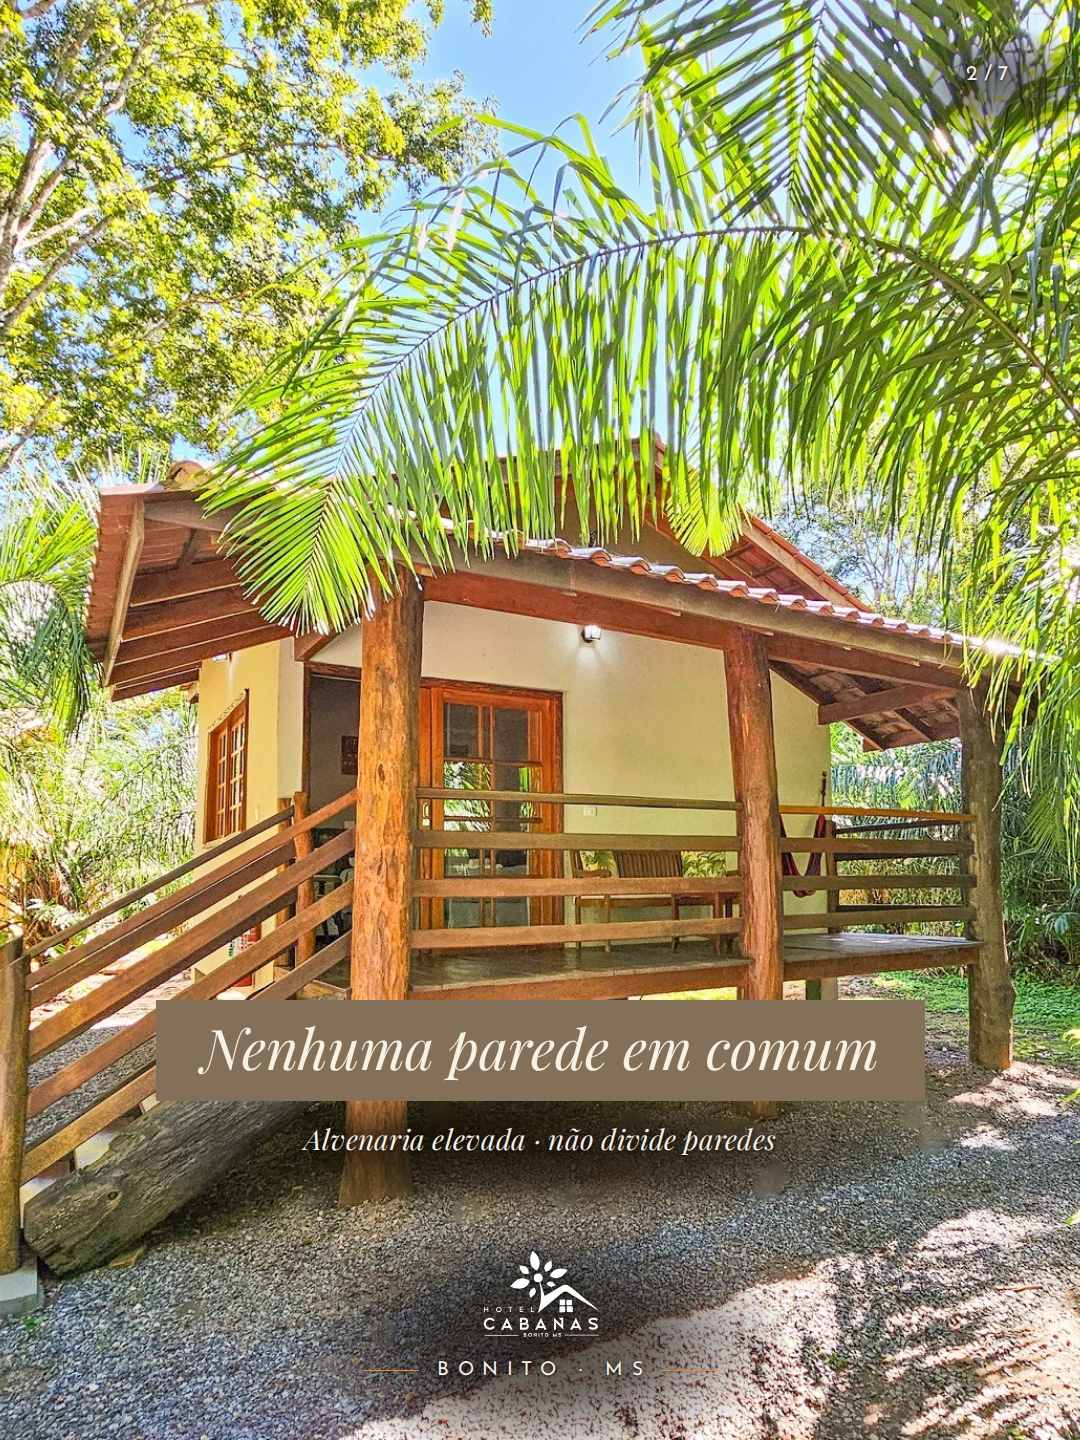
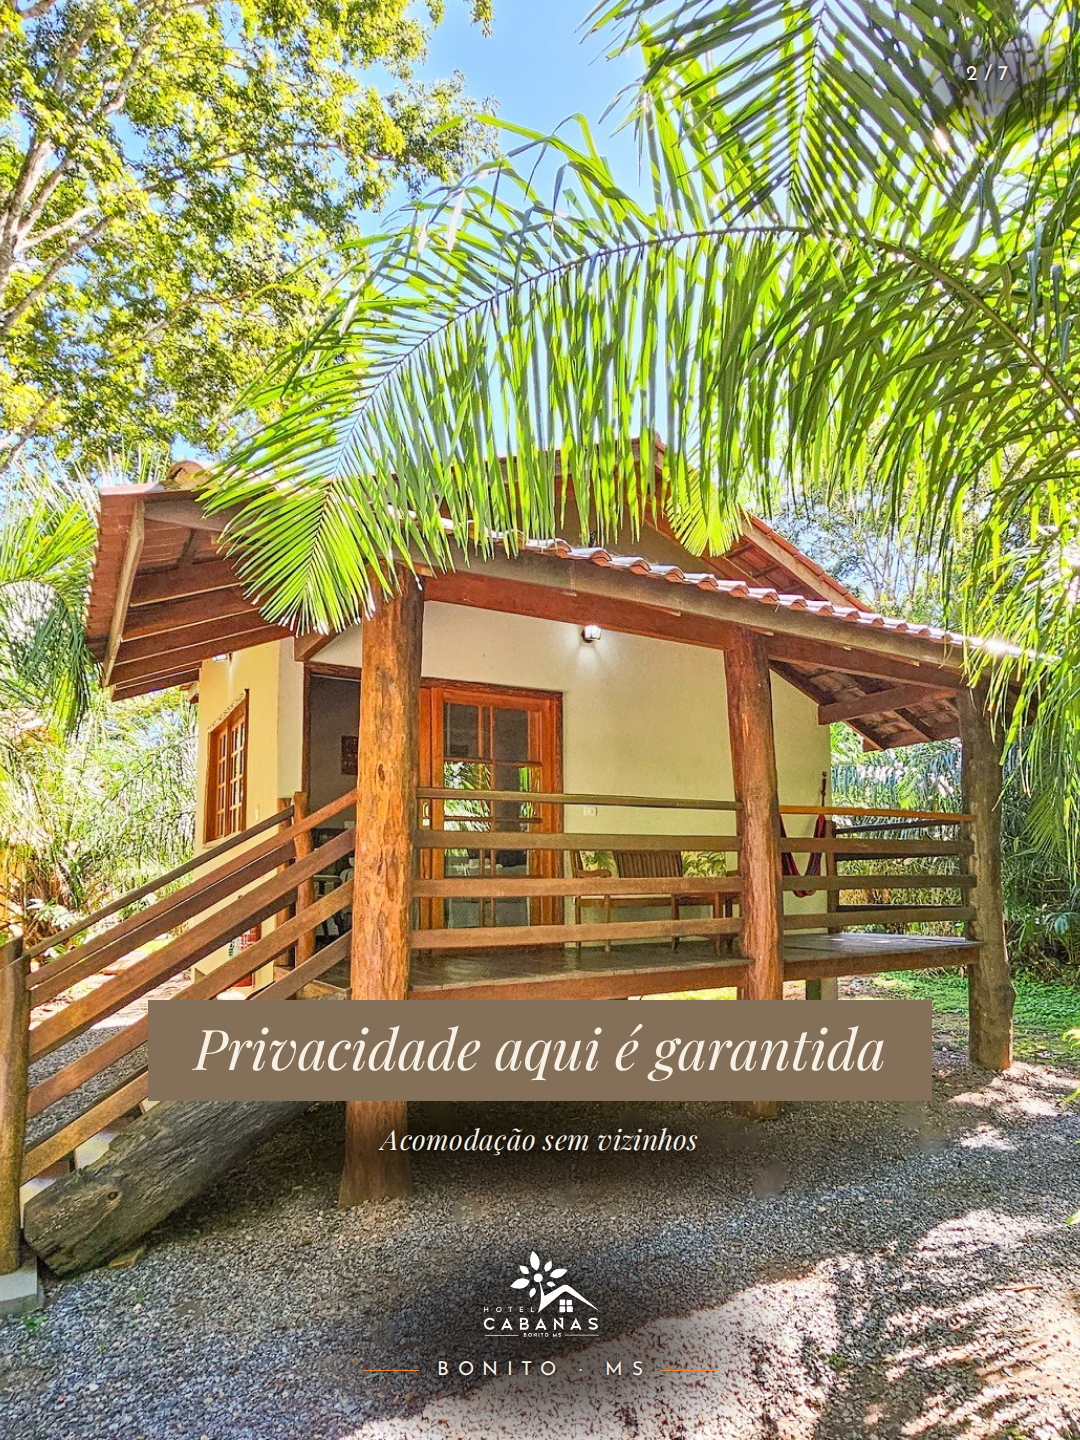
POST 16: tela 2 com o texto editado pelo dono na Central, nos 3 estilos
Claude-Session: https://claude.ai/code/session_01GffBmxQFJnfaKwiJFV7qgT

diff --git a/design/pecas/2026-10-instagram/POST-16/peca-caixa-2.html b/design/pecas/2026-10-instagram/POST-16/peca-caixa-2.html
@@ -19,8 +19,8 @@
   <div class="sombra" style="left: 900px; top: 25px; width: 200px; height: 120px; --forca: 0.55"></div>
   <span class="num-sf">2/7</span>
   <div class="cc" style="--topo: 1000px">
-    <div class="cc-caixa"><h1 class="titulo">Nenhuma parede em comum</h1></div>
-    <p class="cc-apoio">Alvenaria elevada · não divide paredes</p>
+    <div class="cc-caixa"><h1 class="titulo">Privacidade aqui é garantida</h1></div>
+    <p class="cc-apoio">Acomodação sem vizinhos</p>
   </div>
   <div class="cc-selo base">
     <img src="../../../../contexto/marca/logo-hotel-cabanas-branco.png" alt="Hotel Cabanas">

diff --git a/design/pecas/2026-10-instagram/POST-16/peca-sem-faixa-2.html b/design/pecas/2026-10-instagram/POST-16/peca-sem-faixa-2.html
@@ -19,9 +19,9 @@
   <div class="sombra" style="left: 860px; top: 10px; width: 320px; height: 190px; --forca: 0.5"></div>
   <span class="num-sf">2/7</span>
   <div class="bloco-sf baixo">
-      <p class="apoio">Alvenaria elevada · não divide paredes</p>
+      <p class="apoio">Acomodação sem vizinhos</p>
       <div class="linha"></div>
-      <h1 class="titulo">Nenhuma <b>parede</b> em <i>comum</i></h1>
+      <h1 class="titulo">Privacidade <b>aqui</b> é <i>garantida</i></h1>
   </div>
   <div class="assin-sf">
     <span class="fio"></span>

diff --git a/design/pecas/2026-10-instagram/POST-16/peca-2.html b/design/pecas/2026-10-instagram/POST-16/peca-2.html
@@ -16,9 +16,9 @@
   <img class="foto" src="foto-2.jpg" alt="">
   <div class="rodape faixa">
     <div class="texto">
-      <p class="apoio">Alvenaria elevada · não divide paredes</p>
+      <p class="apoio">Acomodação sem vizinhos</p>
       <div class="linha"></div>
-      <h1 class="titulo">Nenhuma <b>parede</b> em <i>comum</i></h1>
+      <h1 class="titulo">Privacidade <b>aqui</b> é <i>garantida</i></h1>
     </div>
     <div class="marca">
       <span class="num">2/7</span>

diff --git a/social/conteudo/2026-10/conteudo.md b/social/conteudo/2026-10/conteudo.md
@@ -547,7 +547,7 @@ Reserve pelo link na bio ou pelo WhatsApp (67) 99117-1648
 ### Briefing de arte
 Feed 3:4 (1080 × 1440). Um só layout em todas as telas (o dono prefere **sem faixa**; faixa discreta marrom `#847059` se a foto for clara demais). Título serifado com a palavra em **negrito** e a palavra em *itálico* marcadas; apoio em sem serifa, caixa alta espaçada; linha fina laranja `#F58634` + "BONITO / MS" na assinatura. **Fotos abertas e conferidas pelo Designer em 29/09/2026** (arte pronta em `design/pecas/2026-10-instagram/POST-16/final/`, layout sem faixa; detalhes em `POST-16/entrega.md`). Trocas: tela 5 e tela 6 (abaixo).
 - TELA 1 (capa): apoio "BANGALÔ · 40 M² · 2 A 4 PESSOAS" · "Espaço para **quatro**, *natureza* em volta" (6) (foto: `Bangalô / bangalo_triplo_externa` (1bcxsg), https://drive.google.com/file/d/1bcxsgpVwVIjIhTqakffLIPrF3pDZvUEi/view; alternativa: `bangalo_triplo_externa` (1wbIC8))
-- TELA 2: apoio "ALVENARIA ELEVADA · NÃO DIVIDE PAREDES" · "Nenhuma **parede** em *comum*" (4) (foto: `Bangalô / bangalo_externa` (1Ys225), https://drive.google.com/file/d/1Ys2258SPxaO5ah1XvSLWK8IqAGOCrx3C/view; já confirmada como Bangalô no POST 07)
+- TELA 2: apoio "ACOMODAÇÃO SEM VIZINHOS" · "Privacidade **aqui** é *garantida*" (4) (texto editado pelo dono na Central em 29/09) (foto: `Bangalô / bangalo_externa` (1Ys225), https://drive.google.com/file/d/1Ys2258SPxaO5ah1XvSLWK8IqAGOCrx3C/view; já confirmada como Bangalô no POST 07)
 - TELA 3: apoio "VARANDA PRIVATIVA COM REDE" · "A **rede** *espera* depois da trilha" (6) (foto: `Bangalô / bangalo_triplo_varanda_com _rede` (1YJx7o), https://drive.google.com/file/d/1YJx7oxm9B2-6m2riSvdhQfWdUVgpsyNo/view; alternativa: `bangalo_quadruplo_varanda_com_rede` (1c3Ru5), já usada no POST 07)
 - TELA 4: apoio "VARANDA PRIVATIVA" · "Conversa **longa**, *vista* para *natureza*" (5) (texto editado pelo dono na Central em 29/09) (foto: `Bangalô / bangalo_triplo_varanda` (1WZSUd), https://drive.google.com/file/d/1WZSUdBcTUezcjnZwCvvxPKNRDwHXxKRA/view)
 - TELA 5: apoio "CAMA DE CASAL + 2 CAMAS DE SOLTEIRO" · "Espaço **amplo**, e *confortável*" (4) (texto editado pelo dono na Central em 29/09) (foto: `Bangalô / bangalo_quadruplo_interna` (1d-UlW), https://drive.google.com/file/d/1d-UlWVw-I06W9AND9MgIZklVzv3hHUTl/view; **trocada pelo Designer**: é a única que mostra a cama de casal e as 2 de solteiro no mesmo quadro; a 1Pcz3a e a 1r9eJt cortam uma das camas de solteiro)
@@ -580,7 +580,7 @@ Reserve pelo link na bio ou pelo WhatsApp (67) 99117-1648.
 ### Texto alternativo (alt text)
 Ajustadas pelo Designer ao que as fotos mostram (29/09/2026).
 - TELA 1: "Bangalô do Hotel Cabanas, de alvenaria em tom creme e telhado de telhas, elevado do chão sobre pilares, com escada de madeira, cercado de árvores. Texto: Espaço para quatro, natureza em volta."
-- TELA 2: "Bangalô visto de frente, sozinho entre palmeiras e árvores, elevado do chão, com escada e varanda de madeira. Texto: Nenhuma parede em comum."
+- TELA 2: "Bangalô visto de frente, sozinho entre palmeiras e árvores, elevado do chão, com escada e varanda de madeira. Texto: Privacidade aqui é garantida."
 - TELA 3: "Varanda do Bangalô com uma rede colorida armada, piso de madeira e a mata ao fundo. Texto: A rede espera depois da trilha."
 - TELA 4: "Varanda do Bangalô com mesa de madeira, banco com almofadas e vista para a mata. Texto: Conversa longa, vista para natureza."
 - TELA 5: "Quarto do Bangalô com uma cama de casal ao centro e duas camas de solteiro, uma de cada lado, com toalhas dobradas e forro de madeira. Texto: Espaço amplo e confortável."
